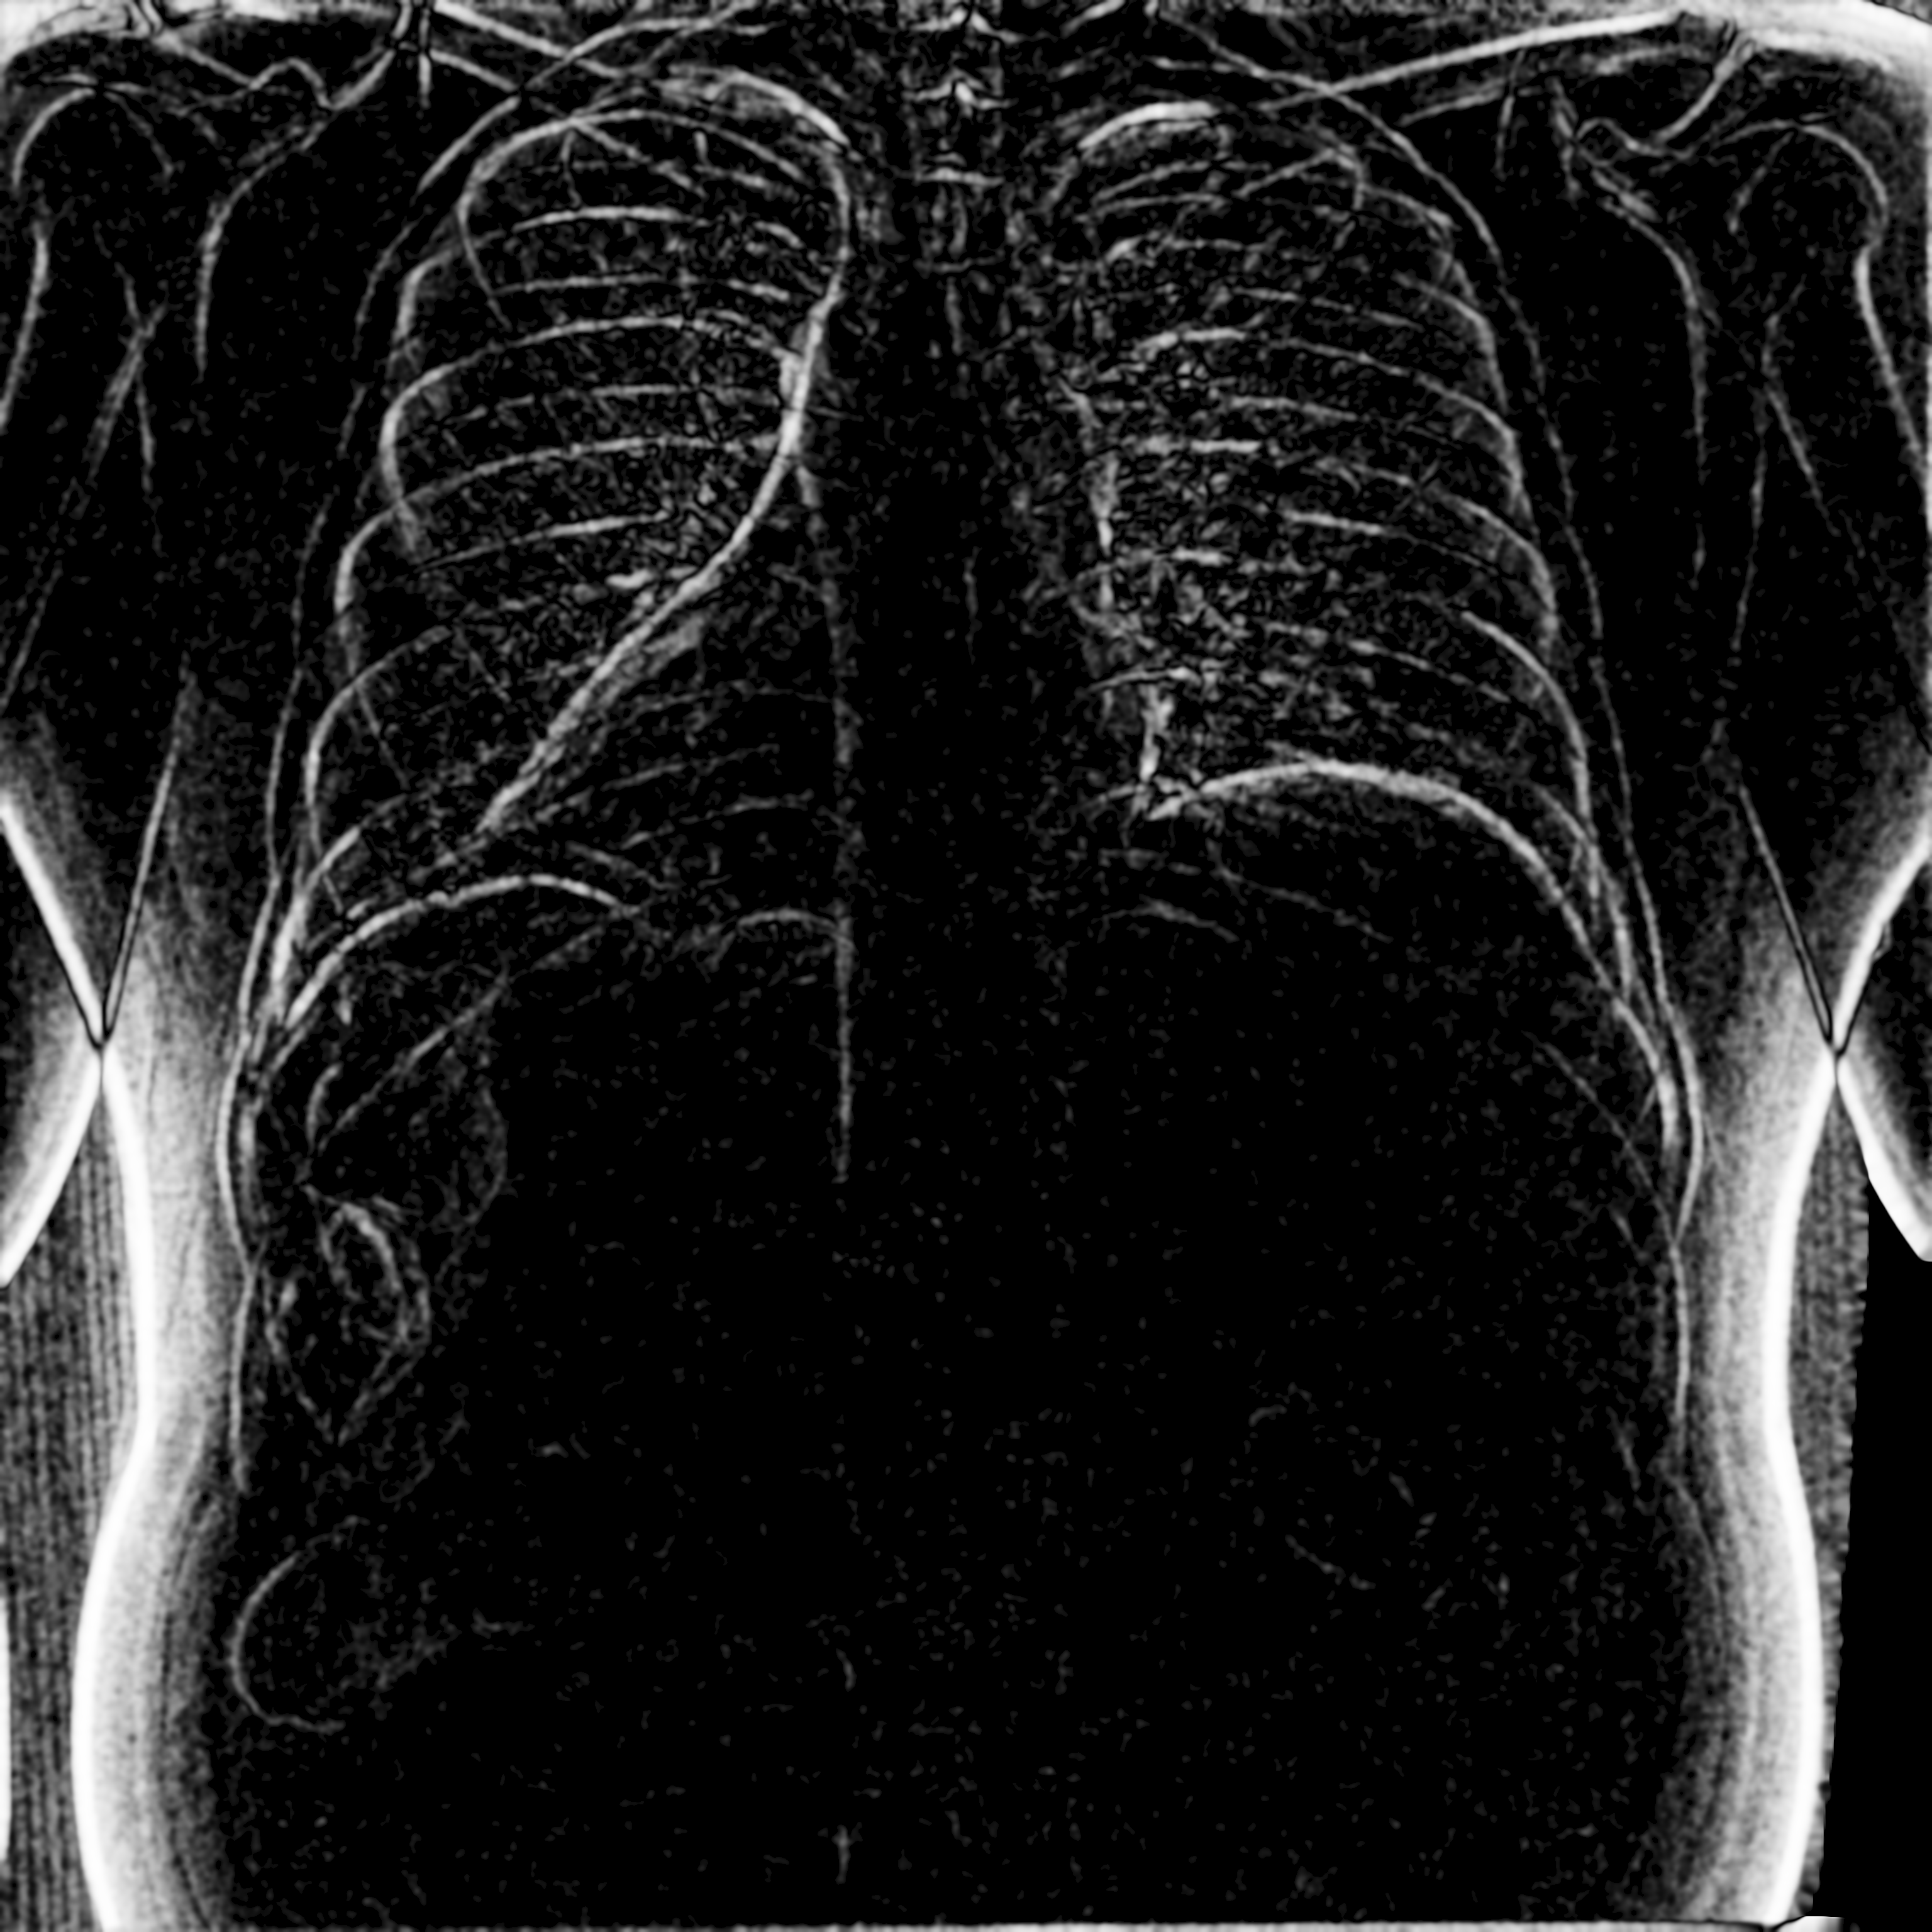
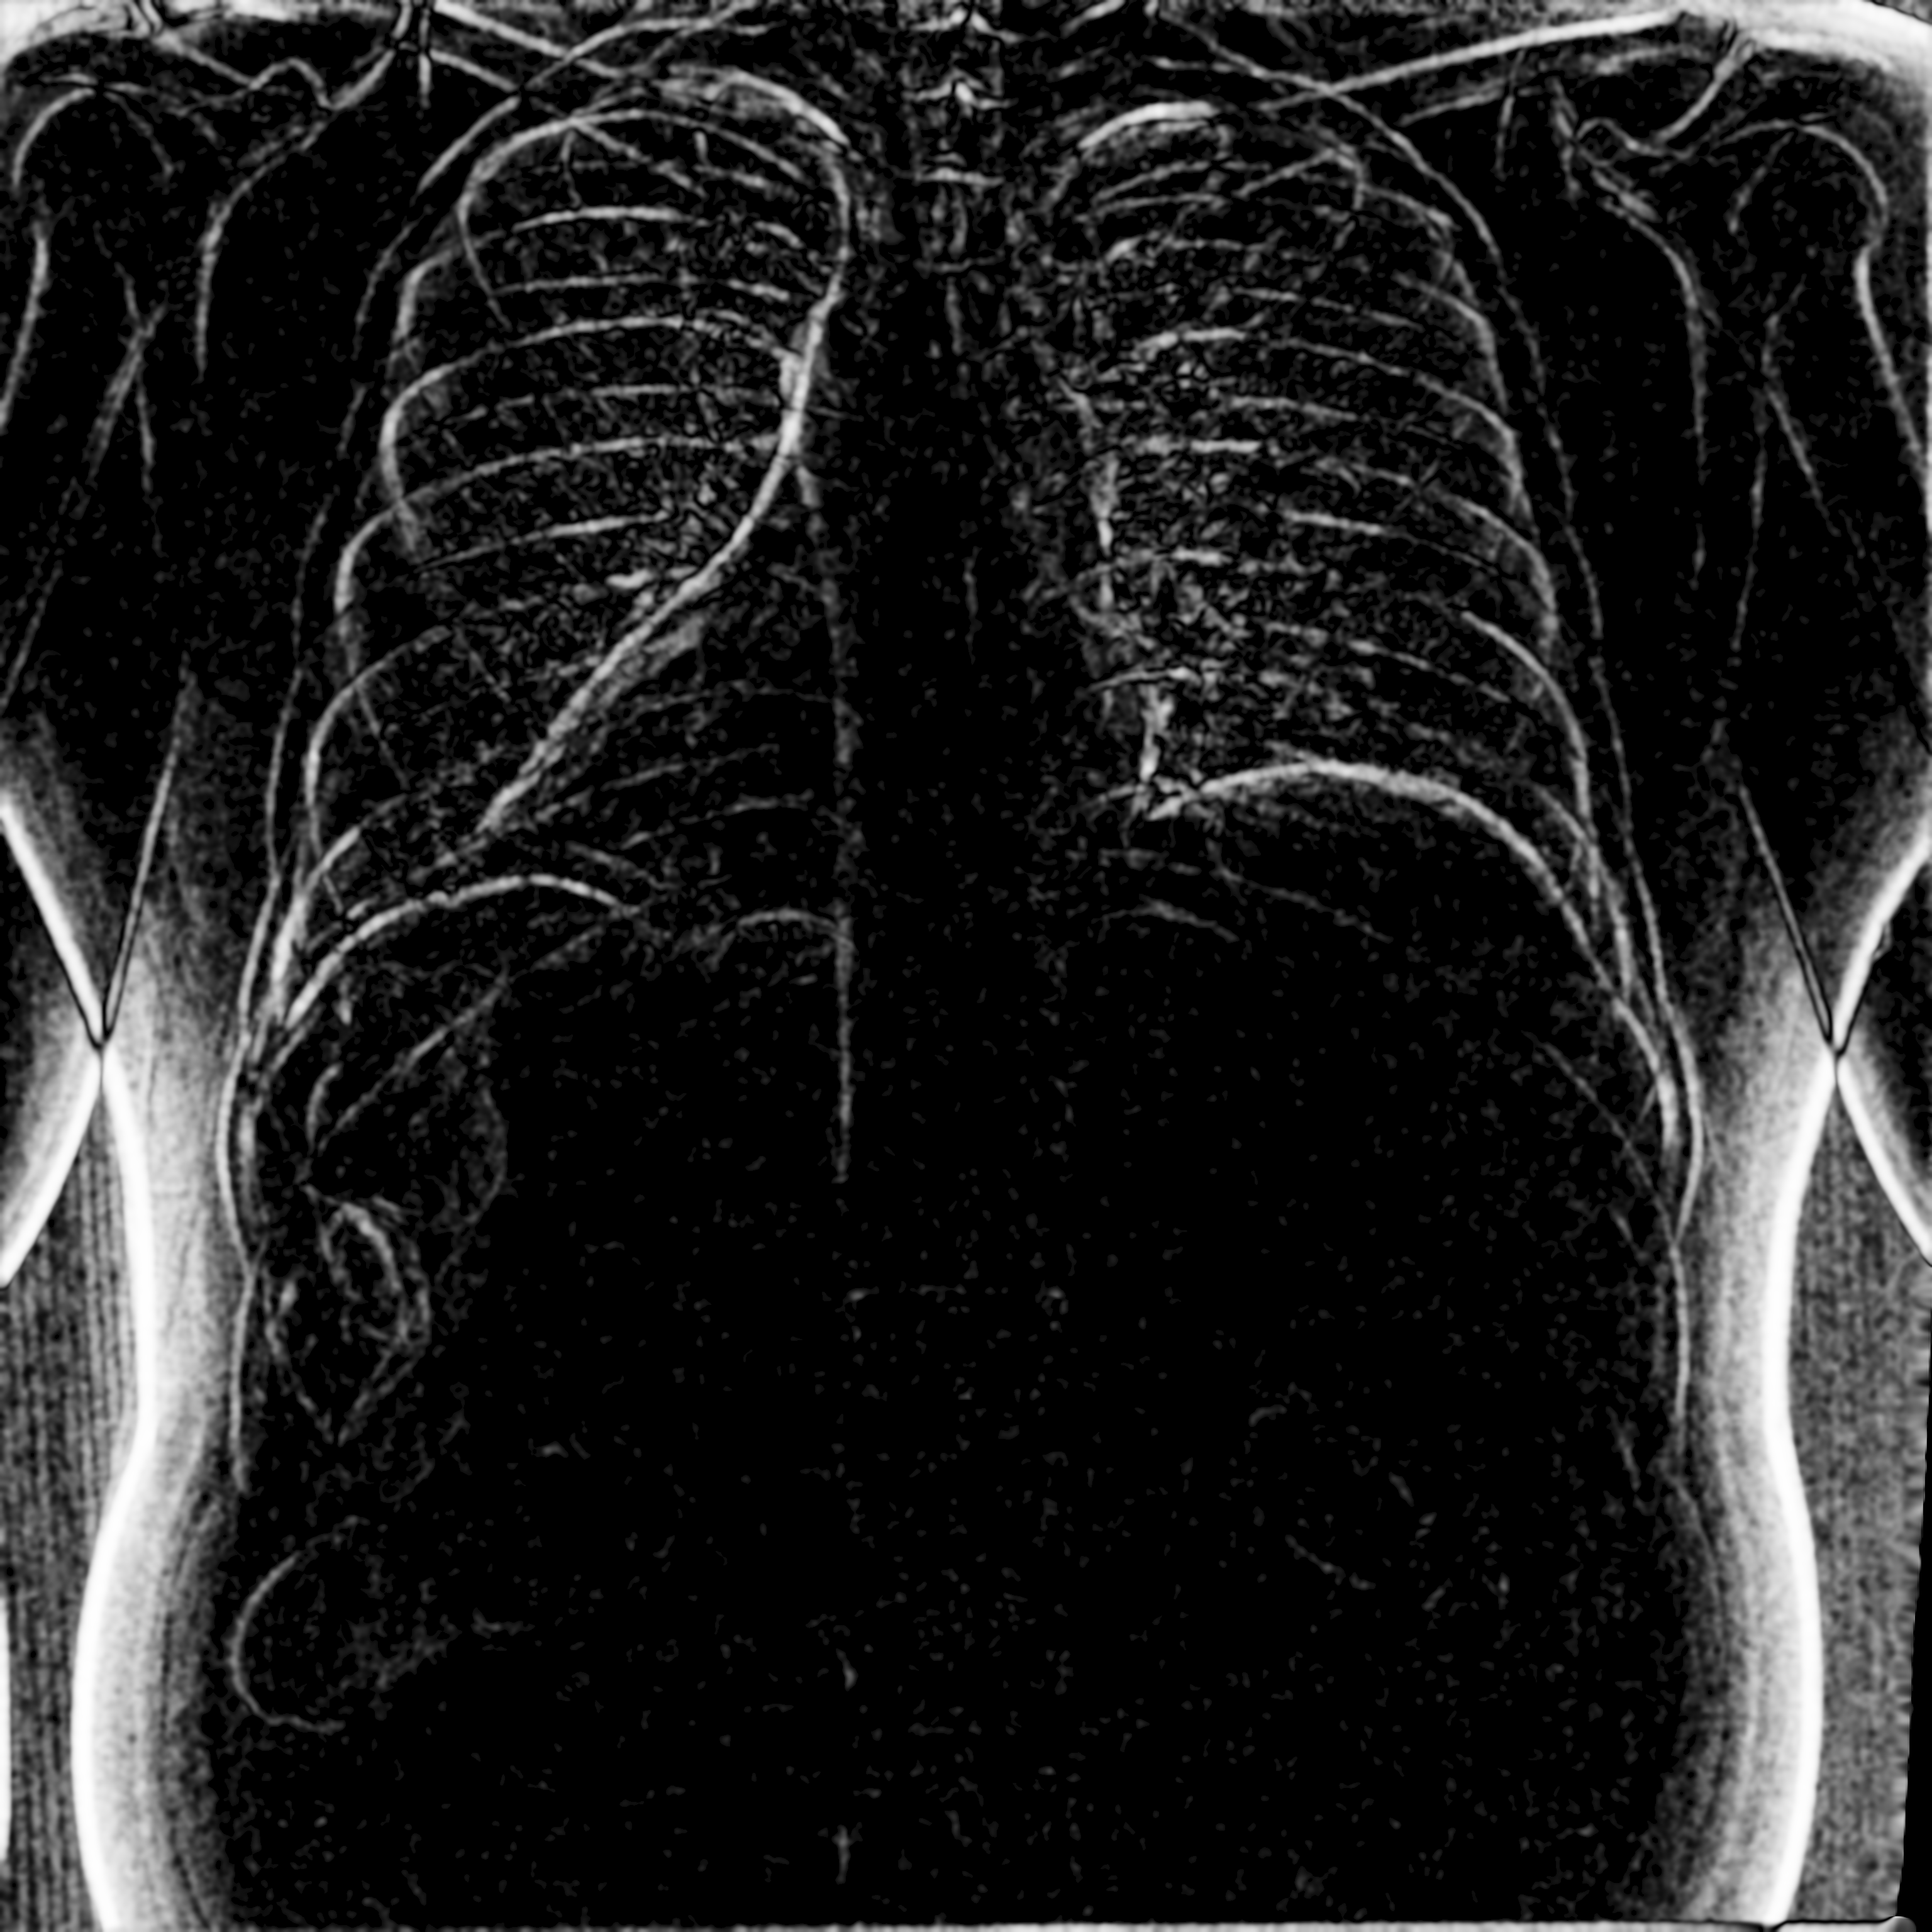
suppression

Changed region(s): [[0.9062, 0.5938, 1.0, 1.0]]

diff --git a/suppression.py b/suppression.py
@@ -1,0 +1,253 @@
+import cv2
+import numpy as np
+import matplotlib.pyplot as plt
+from pathlib import Path
+
+
+# ====================================================
+# 0. Settings
+# ====================================================
+
+image_path = "CHEST_sid 180_110kv 8mas_grid O.raw"
+# image_path = "zFail_chest 86kv 200ma 8mas (grid).raw"
+# image_path = "zFail_chest 75kv 200ma 5mas.raw"
+
+width = 3072
+height = 3072
+
+# RAW display parameters
+low_percentile = 0.5
+high_percentile = 99.5
+gamma = 0.30          # 0.25, 0.30, 0.35 중에서 조정 가능
+contrast = 1.05
+brightness = 0.00
+
+# Bone mask parameters
+tau_c = 0.10          # coherency threshold
+tau_g = 0.02          # gradient threshold
+min_size = 80
+
+# Suppression parameter
+alpha = 0.30          # 뼈 억제 강도. 0.20~0.45 사이에서 조정 가능
+
+
+# ====================================================
+# 1. Load RAW image
+# ====================================================
+
+raw = np.fromfile(image_path, dtype=np.uint16)
+
+if raw.size != width * height:
+    raise ValueError(
+        f"RAW size mismatch: got {raw.size}, expected {width * height}. "
+        f"Check width, height, dtype, or file path."
+    )
+
+raw = raw.reshape((height, width))
+raw = raw.astype(np.float32)
+
+print("RAW loaded")
+print("raw dtype:", raw.dtype)
+print("raw shape:", raw.shape)
+print("raw min:", raw.min())
+print("raw max:", raw.max())
+print("raw percentiles:", np.percentile(raw, [0.5, 1, 5, 50, 95, 99, 99.5]))
+
+
+# ====================================================
+# 2. Windowing + gamma correction
+# ====================================================
+
+low, high = np.percentile(raw, (low_percentile, high_percentile))
+
+img = np.clip(raw, low, high)
+img = (img - low) / (high - low + 1e-8)
+
+# 반전은 사용하지 않음
+# img = 1.0 - img
+
+# gamma < 1이면 어두운 영역이 밝아짐
+img = np.power(img, gamma)
+
+# contrast / brightness fine tuning
+img = contrast * (img - 0.5) + 0.5 + brightness
+img = np.clip(img, 0, 1)
+
+img = img.astype(np.float32)
+img = np.ascontiguousarray(img)
+
+print("Processed image")
+print("img dtype:", img.dtype)
+print("img min:", img.min())
+print("img max:", img.max())
+
+
+# ====================================================
+# 3. CED substitute: edge-preserving smoothing
+# ====================================================
+# 원래 PDF의 CED 대신 bilateral filter 사용
+# img가 0~1 float32이므로 sigmaColor는 0.05~0.15 정도가 적절함
+
+ced = cv2.bilateralFilter(
+    img,
+    d=9,
+    sigmaColor=0.08,
+    sigmaSpace=75
+)
+
+ced = ced.astype(np.float32)
+ced = (ced - ced.min()) / (ced.max() - ced.min() + 1e-8)
+
+
+# ====================================================
+# 4. Gradient computation
+# ====================================================
+
+Ix = cv2.Sobel(img, cv2.CV_32F, 1, 0, ksize=3)
+Iy = cv2.Sobel(img, cv2.CV_32F, 0, 1, ksize=3)
+
+grad_mag = np.sqrt(Ix**2 + Iy**2)
+grad_mag = grad_mag / (grad_mag.max() + 1e-8)
+
+
+# ====================================================
+# 5. Structure tensor and coherency map
+# ====================================================
+
+sigma = 5
+
+Jxx = cv2.GaussianBlur(Ix * Ix, (0, 0), sigma)
+Jxy = cv2.GaussianBlur(Ix * Iy, (0, 0), sigma)
+Jyy = cv2.GaussianBlur(Iy * Iy, (0, 0), sigma)
+
+trace = Jxx + Jyy
+det = Jxx * Jyy - Jxy * Jxy
+
+temp = np.sqrt(np.maximum(trace**2 - 4 * det, 0))
+
+mu1 = 0.5 * (trace + temp)
+mu2 = 0.5 * (trace - temp)
+
+coherency = ((mu1 - mu2) / (mu1 + mu2 + 1e-8)) ** 2
+coherency = coherency / (coherency.max() + 1e-8)
+
+
+# ====================================================
+# 6. Bone mask generation
+# ====================================================
+# 방향성이 강하고, gradient도 어느 정도 있는 부분만 bone 후보로 선택
+
+bone_mask = (coherency > tau_c) & (grad_mag > tau_g)
+
+bone_mask_uint8 = bone_mask.astype(np.uint8)
+
+num_labels, labels, stats, _ = cv2.connectedComponentsWithStats(
+    bone_mask_uint8,
+    connectivity=8
+)
+
+clean_mask = np.zeros_like(bone_mask_uint8)
+
+for i in range(1, num_labels):  # 0번은 배경
+    area = stats[i, cv2.CC_STAT_AREA]
+    if area >= min_size:
+        clean_mask[labels == i] = 1
+
+# Morphological closing
+kernel = cv2.getStructuringElement(cv2.MORPH_ELLIPSE, (5, 5))
+bone_mask = cv2.morphologyEx(clean_mask, cv2.MORPH_CLOSE, kernel)
+bone_mask = bone_mask.astype(np.float32)
+
+
+# ====================================================
+# 7. Bone component estimation
+# ====================================================
+# coherency만 쓰면 너무 넓게 잡히므로 gradient를 함께 사용
+
+bone_component = coherency * grad_mag * bone_mask
+bone_component = cv2.GaussianBlur(bone_component.astype(np.float32), (0, 0), 2)
+bone_component = bone_component / (bone_component.max() + 1e-8)
+
+
+# ====================================================
+# 8. Bone suppression
+# ====================================================
+# 현재 영상에서는 뼈가 밝은 edge 성분으로 잡히므로 bone_component를 빼는 방식 사용
+
+soft = img - alpha * bone_component
+soft = np.clip(soft, 0, 1)
+
+# 비교용 blur-mixing 방식이 필요하면 아래를 대신 사용 가능
+# soft_mask = cv2.GaussianBlur(bone_mask, (0, 0), 5)
+# soft_mask = soft_mask / (soft_mask.max() + 1e-8)
+# blurred = cv2.GaussianBlur(img, (0, 0), 12)
+# soft = img * (1 - alpha * soft_mask) + blurred * (alpha * soft_mask)
+# soft = np.clip(soft, 0, 1)
+
+
+# ====================================================
+# 9. Visualization
+# ====================================================
+
+plt.close("all")
+
+plt.figure(figsize=(14, 9))
+
+titles = [
+    "Original",
+    "CED substitute",
+    "Gradient magnitude",
+    "Coherency map",
+    "Estimated bone component",
+    "Bone-suppressed image"
+]
+
+images = [
+    img,
+    ced,
+    grad_mag,
+    coherency,
+    bone_component,
+    soft
+]
+
+for i in range(6):
+    plt.subplot(2, 3, i + 1)
+    plt.imshow(images[i], cmap="gray", vmin=0, vmax=1)
+    plt.title(titles[i])
+    plt.axis("off")
+
+plt.tight_layout()
+plt.show()
+
+
+# ====================================================
+# 10. Save outputs
+# ====================================================
+
+output_dir = Path("outputs")
+output_dir.mkdir(exist_ok=True)
+
+output_files = [
+    output_dir / "original_windowed.png",
+    output_dir / "ced_result.png",
+    output_dir / "gradient_magnitude.png",
+    output_dir / "coherency_map.png",
+    output_dir / "bone_component.png",
+    output_dir / "bone_suppressed.png"
+]
+
+# 기존 png 삭제 후 새로 저장
+for file in output_files:
+    if file.exists():
+        file.unlink()
+
+cv2.imwrite(str(output_dir / "original_windowed.png"), (img * 255).astype(np.uint8))
+cv2.imwrite(str(output_dir / "ced_result.png"), (ced * 255).astype(np.uint8))
+cv2.imwrite(str(output_dir / "gradient_magnitude.png"), (grad_mag * 255).astype(np.uint8))
+cv2.imwrite(str(output_dir / "coherency_map.png"), (coherency * 255).astype(np.uint8))
+cv2.imwrite(str(output_dir / "bone_component.png"), (bone_component * 255).astype(np.uint8))
+cv2.imwrite(str(output_dir / "bone_suppressed.png"), (soft * 255).astype(np.uint8))
+
+print("Saved outputs to:", output_dir.resolve())
+print("Done")

diff --git a/boneraw.py b/boneraw.py
@@ -6,6 +6,53 @@ import matplotlib.pyplot as plt
 image_path = "zFail_chest 75kv 200ma 5mas.raw"
 # image_path = "ABD_sid 100_ 80kv 20mas_grid O.raw"
 
+# width = 3072
+# height = 3072
+
+# raw = np.fromfile(image_path, dtype=np.uint16)
+# raw = raw.reshape((height, width))
+# raw = raw.astype(np.float32)
+
+# low, high = np.percentile(raw, (0.5, 99.5))
+
+# img = np.clip(raw, low, high)
+# img = (img - low) / (high - low + 1e-8)
+
+# plt.figure(figsize=(10, 5))
+
+# plt.subplot(1, 2, 1)
+# plt.imshow(img, cmap="gray")
+# plt.title("No invert")
+# plt.axis("off")
+
+# plt.subplot(1, 2, 2)
+# plt.imshow(1.0 - img, cmap="gray")
+# plt.title("Invert")
+# plt.axis("off")
+
+# plt.tight_layout()
+# plt.show()
+
+# ---------------------------------------
+# 밝기 조절
+
+# width = 3072
+# height = 3072
+
+# raw = np.fromfile(image_path, dtype=np.uint16)
+# raw = raw.reshape((height, width))
+# raw = raw.astype(np.float32)
+
+# img = (raw - raw.min()) / (raw.max() - raw.min() + 1e-8)
+
+# plt.figure(figsize=(6, 6))
+# plt.imshow(img, cmap="gray")
+# plt.title("Normalized RAW")
+# plt.axis("off")
+# plt.show()
+
+# --------------------------------------------
+
 width = 3072
 height = 3072
 
@@ -18,17 +65,8 @@ low, high = np.percentile(raw, (0.5, 99.5))
 img = np.clip(raw, low, high)
 img = (img - low) / (high - low + 1e-8)
 
-plt.figure(figsize=(10, 5))
-
-plt.subplot(1, 2, 1)
+plt.figure(figsize=(6, 6))
 plt.imshow(img, cmap="gray")
-plt.title("No invert")
+plt.title("Windowed RAW")
 plt.axis("off")
-
-plt.subplot(1, 2, 2)
-plt.imshow(1.0 - img, cmap="gray")
-plt.title("Invert")
-plt.axis("off")
-
-plt.tight_layout()
 plt.show()

diff --git a/boneimage.py b/boneimage.py
@@ -1,0 +1,30 @@
+import numpy as np
+import matplotlib.pyplot as plt
+
+image_path = "CHEST_sid 180_110kv 8mas_grid O.raw"
+
+width = 3072
+height = 3072
+
+raw = np.fromfile(image_path, dtype=np.uint16)
+raw = raw.reshape((height, width))
+raw = raw.astype(np.float32)
+
+low, high = np.percentile(raw, (0.5, 99.5))
+base = np.clip(raw, low, high)
+base = (base - low) / (high - low + 1e-8)
+
+gammas = [0.35, 0.45, 0.60, 0.80, 0.25, 0.3]
+
+plt.figure(figsize=(14, 8))
+
+for i, gamma in enumerate(gammas):
+    img_test = np.power(base, gamma)
+    
+    plt.subplot(2, 3, i + 1)
+    plt.imshow(img_test, cmap="gray", vmin=0, vmax=1)
+    plt.title(f"gamma = {gamma}")
+    plt.axis("off")
+
+plt.tight_layout()
+plt.show()

diff --git a/bone_sup.py b/bone_sup.py
@@ -26,9 +26,10 @@ img = np.fromfile(image_path, dtype=np.uint16)
 img = img.reshape((height, width))
 img = img.astype(np.float32)
 
-low, high = np.percentile(img, (2, 98))
+low, high = np.percentile(img, (0.5, 99.5))
 img = np.clip(img, low, high)
 img = (img - low) / (high - low + 1e-8)
+
 
 # 필요하면 X-ray 밝기 반전
 # img = 1.0 - img
@@ -42,7 +43,12 @@ img = np.ascontiguousarray(img)
 # ced = (ced - ced.min()) / (ced.max() - ced.min() + 1e-8)
 
 # 2. CED 대신 Gaussian + edge-preserving
-ced = cv2.bilateralFilter(img, d=9, sigmaColor=75, sigmaSpace=75)
+# ced = cv2.bilateralFilter(img, d=9, sigmaColor=75, sigmaSpace=75)
+# ced = (ced - ced.min()) / (ced.max() - ced.min() + 1e-8)
+
+# -------------------------------------------
+gamma = 0.45
+ced = cv2.bilateralFilter(img, d=9, sigmaColor=0.08, sigmaSpace=75)
 ced = (ced - ced.min()) / (ced.max() - ced.min() + 1e-8)
 
 # 3. Gradient